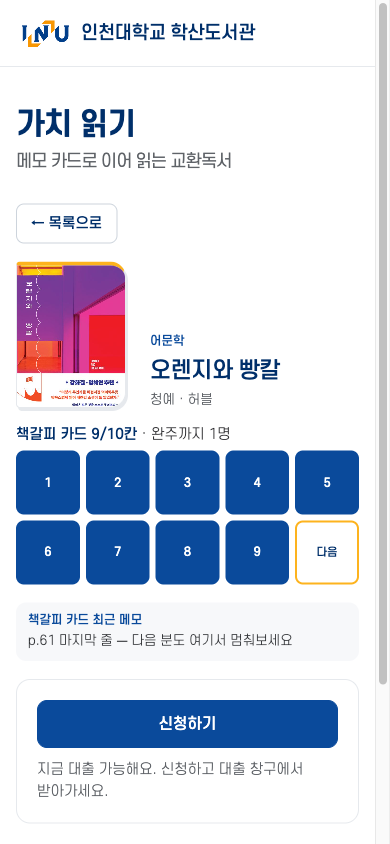
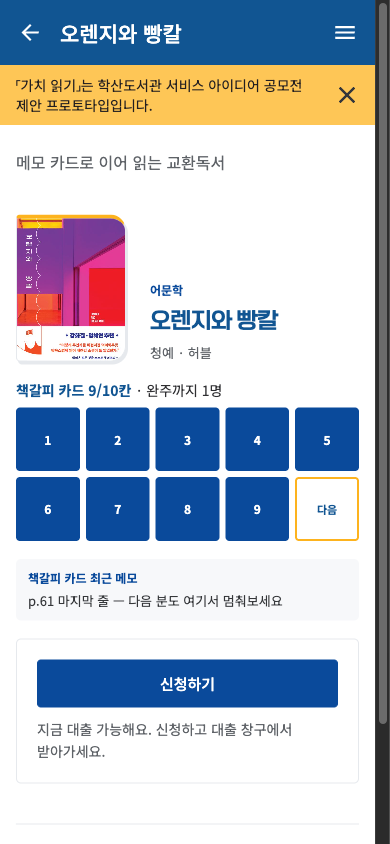
시안: 학산도서관 서브 페이지 구성 (도서관 서비스 > 가치 읽기)
- 학산도서관 실측값으로 헤더·메뉴·사이드바·경로·제목, 모바일 파란 상단 바 구성
- 메뉴·사이드바 링크는 실제 학산도서관 페이지로 연결, 검색창 등 가짜 기능 없음
- 공모전 제안 시안 · 비공식 배지 상시 표시, 노란 공지 띠, noindex(meta + X-Robots-Tag)
- 탭 제목·OG를 공모전 제안 프로토타입(비공식)으로
- 폰에서 바깥 탭 시 가운데 책 정보가 사라지던 버그 수정, 1024px 메뉴 넘침 수정
- 발표용 예상 화면 이미지 폴더(presentation/)는 git 제외

diff --git a/index.html b/index.html
@@ -3,33 +3,85 @@
 <head>
 <meta charset="utf-8">
 <meta name="viewport" content="width=device-width, initial-scale=1">
-<title>가치 읽기 · 인천대학교 학산도서관</title>
+<link rel="icon" href="/inu-logo.png">
+<title>가치 읽기 — 학산도서관 공모전 제안 프로토타입(비공식)</title>
+<meta name="robots" content="noindex, noarchive, nosnippet">
+<meta name="description" content="학산도서관 서비스 아이디어 공모전 제안 「가치 읽기」의 프로토타입입니다. 학산도서관 공식 서비스가 아닙니다.">
+<meta property="og:title" content="가치 읽기 — 학산도서관 공모전 제안 프로토타입(비공식)">
+<meta property="og:description" content="메모 카드로 이어 읽는 교환독서. 공모전 제안용 시안이며 학산도서관 공식 서비스가 아닙니다.">
+<meta property="og:type" content="website">
 <style>
-  /* 인천대 홈페이지와 같은 에스코어드림 (무료 폰트, 눈누 CDN) */
-  /* 에스코어드림은 획이 두꺼워서 한 단계씩 가볍게: 400→Light, 500→Regular, 600·700→Medium, 제목(800)만 Bold */
-  @font-face { font-family:'S-CoreDream'; font-weight:400; font-display:swap; src:url('https://cdn.jsdelivr.net/gh/projectnoonnu/noonfonts_six@1.2/S-CoreDream-3Light.woff') format('woff'); }
-  @font-face { font-family:'S-CoreDream'; font-weight:500; font-display:swap; src:url('https://cdn.jsdelivr.net/gh/projectnoonnu/noonfonts_six@1.2/S-CoreDream-4Regular.woff') format('woff'); }
-  @font-face { font-family:'S-CoreDream'; font-weight:600 700; font-display:swap; src:url('https://cdn.jsdelivr.net/gh/projectnoonnu/noonfonts_six@1.2/S-CoreDream-5Medium.woff') format('woff'); }
-  @font-face { font-family:'S-CoreDream'; font-weight:800; font-display:swap; src:url('https://cdn.jsdelivr.net/gh/projectnoonnu/noonfonts_six@1.2/S-CoreDream-6Bold.woff') format('woff'); }
-  :root { --blue:#0A4A9B; --navy:#002F6A; --ink:#2F2F32; --sub:#5F6368; --line:#E6E9ED; --soft:#F7F8FA; --cover:#F1F4F8; --point:#FDB31E; }
+  @font-face { font-family:'Noto Sans KR'; font-weight:300; font-display:swap; src:url('https://cdn.jsdelivr.net/npm/@fontsource/noto-sans-kr@5.2.6/files/noto-sans-kr-korean-300-normal.woff2') format('woff2'); }
+  @font-face { font-family:'Noto Sans KR'; font-weight:400; font-display:swap; src:url('https://cdn.jsdelivr.net/npm/@fontsource/noto-sans-kr@5.2.6/files/noto-sans-kr-korean-400-normal.woff2') format('woff2'); }
+  @font-face { font-family:'Noto Sans KR'; font-weight:500; font-display:swap; src:url('https://cdn.jsdelivr.net/npm/@fontsource/noto-sans-kr@5.2.6/files/noto-sans-kr-korean-500-normal.woff2') format('woff2'); }
+  @font-face { font-family:'Noto Sans KR'; font-weight:700; font-display:swap; src:url('https://cdn.jsdelivr.net/npm/@fontsource/noto-sans-kr@5.2.6/files/noto-sans-kr-korean-700-normal.woff2') format('woff2'); }
+  @font-face { font-family:'ONE Mobile Regular'; font-weight:400; font-display:swap; src:url('https://cdn.jsdelivr.net/gh/projectnoonnu/noonfonts_2105_2@1.0/ONE-Mobile-Regular.woff') format('woff'); }
+  @font-face { font-family:'ONE Mobile Title'; font-weight:400; font-display:swap; src:url('https://cdn.jsdelivr.net/gh/projectnoonnu/noonfonts_2105_2@1.0/ONE-Mobile-Title.woff') format('woff'); }
+  :root { --blue:#0A4A9B; --navy:#115592; --ink:#2F2F32; --sub:#5F6368; --line:#E6E9ED; --soft:#F7F8FA; --cover:#F1F4F8; --point:#FDB31E; }
   * { box-sizing: border-box; }
-  body { margin:0; background:#fff; color:var(--ink); font-family:'S-CoreDream',system-ui,sans-serif; word-break:keep-all; overflow-wrap:anywhere; } /* 한국어는 단어 중간에서 줄바꿈 안 함 */
-  header { border-bottom:1px solid var(--line); }
-  .wrap { max-width:1200px; margin:0 auto; padding:0 32px; }
-  .top { display:flex; flex-wrap:wrap; gap:12px; align-items:center; justify-content:space-between; padding:18px 32px; }
-  .brand { display:flex; align-items:center; gap:10px; font-size:18px; font-weight:700; color:var(--navy); letter-spacing:-0.02em; }
-  .brand img { width:51px; height:30px; object-fit:contain; }
-  main { padding:56px 48px 64px; display:flex; flex-direction:column; align-items:center; text-align:center; }
-  main > h1, footer { width:100%; max-width:1200px; margin-left:auto; margin-right:auto; }
-  #list-now { width:100%; display:flex; flex-direction:column; align-items:center; }
-  h1.title { margin:0; align-self:stretch; display:flex; flex-direction:column; align-items:flex-start; gap:8px; text-align:left; letter-spacing:-0.03em; }
-  h1.title span { font-size:40px; font-weight:800; color:var(--navy); }
-  h1.title small { font-size:17px; font-weight:500; color:var(--sub); }
-  .sec { margin:0; font-size:22px; letter-spacing:-0.02em; color:var(--navy); }
-  .sec span { font-size:16px; font-weight:500; color:var(--sub); }
-  .shelf { width:100%; display:flex; margin-top:24px; }
-  .row { flex:1 1 auto; min-width:0; display:flex; align-items:flex-end; gap:24px; padding:48px 0 0; outline:none; touch-action:pan-y; }
-  .row:focus-visible { box-shadow:0 0 0 2px var(--blue); border-radius:8px; }
+  body { margin:0; background:#fff; color:var(--ink); font-family:'Noto Sans KR',system-ui,sans-serif; font-size:16px; font-weight:400; word-break:keep-all; overflow-wrap:anywhere; } /* 한국어는 단어 중간에서 줄바꿈 안 함 */
+  a { color:inherit; text-decoration:none; }
+  svg.i { width:1em; height:1em; flex:0 0 auto; fill:currentColor; }
+  /* ── 학산도서관 서브 페이지 뼈대 (lib.inu.ac.kr 실측값: 헤더 84 · 메뉴 73 · 사이드바 270 · 본문 왼쪽 여백 40) ── */
+  .hd { position:relative; height:84px; display:flex; align-items:center; padding:0 120px 0 20px; }
+  .brand { display:flex; align-items:center; gap:10px; font-size:30px; font-weight:500; color:#58595B; letter-spacing:-0.04em; }
+  .brand img { width:82px; height:48px; object-fit:contain; }
+  .draft { flex:0 0 auto; padding:3px 9px; border:1px solid currentColor; border-radius:3px; font-family:'Noto Sans KR',sans-serif; font-size:13px; font-weight:500; line-height:1.4; letter-spacing:0; white-space:nowrap; }
+  .hd .draft { margin-left:14px; color:#B26B00; background:#FFF7E6; border-color:#F3C56B; }
+  .hd .univ { margin-left:auto; font-size:17px; color:#35373A; }
+  .hd .home { position:absolute; top:0; right:0; z-index:2; width:80px; height:104px; padding-bottom:20px; display:grid; place-items:center; background:var(--point); color:#fff; font-size:34px; clip-path:polygon(0 0, 100% 0, 100% 100%, 50% 82%, 0 100%); }
+  .gnb { height:73px; display:flex; align-items:center; gap:clamp(28px, 5vw, 100px); padding:0 100px 0 clamp(20px, 8vw, 114px); border-top:1px solid var(--line); border-bottom:1px solid var(--line); }
+  .gnb a { font-size:23px; font-weight:500; line-height:71px; color:#35373A; white-space:nowrap; }
+  .gnb a:hover, .gnb a.on { color:var(--blue); }
+  .notice { display:flex; align-items:center; gap:16px; min-height:62px; padding:10px 20px 10px 32px; background:rgba(253,179,30,.75); font-size:20px; color:#231F20; }
+  .notice p { margin:0; flex:1; }
+  .notice button { border:0; background:none; font:inherit; font-size:15px; color:#35373A; cursor:pointer; display:flex; align-items:center; gap:8px; min-height:40px; }
+  .notice button svg { font-size:28px; }
+  .notice[hidden] { display:none; }
+  .mbar { display:none; }
+  .lib-body { display:flex; align-items:flex-start; max-width:1440px; margin:0 auto; padding:45px 20px 0; }
+  .snb { flex:0 0 270px; font-family:'ONE Mobile Regular','Noto Sans KR',sans-serif; font-size:17px; }
+  .snb-title { position:relative; height:125px; display:grid; place-items:center; overflow:hidden; margin:0; background:var(--blue); color:#fff; font-family:'ONE Mobile Title','Noto Sans KR',sans-serif; font-size:27px; font-weight:400; }
+  .snb-title .wm { position:absolute; left:-6px; top:50%; transform:translateY(-50%); font-size:150px; letter-spacing:-0.05em; color:rgba(0,0,0,.12); pointer-events:none; }
+  .snb-title b { position:relative; font-weight:400; }
+  .snb-title::before, .snb-title::after { content:''; position:absolute; width:12px; height:12px; border:0 solid var(--point); }
+  .snb-title::before { top:20px; right:62px; border-top-width:4px; border-right-width:4px; } /* 노란 꺾쇠 ┐ */
+  .snb-title::after { bottom:24px; left:56px; border-bottom-width:4px; border-left-width:4px; } /* 노란 꺾쇠 └ */
+  .snb ul { list-style:none; margin:0; padding:0; }
+  .snb strong { display:flex; align-items:center; justify-content:space-between; padding:19px 14px 14px 17px; border-bottom:1px solid #EBECEC; font-weight:500; color:#231F20; }
+  .snb strong svg { font-size:24px; color:#9B9DA0; }
+  .snb strong.on { background:#EEF3FA; color:var(--blue); }
+  .snb li a { position:relative; display:block; padding:15px 14px 10px 38px; border-bottom:1px solid #EBECEC; line-height:19px; color:#2F2F32; }
+  .snb li a::before { content:''; position:absolute; left:17px; top:18px; width:9px; height:9px; border:2px solid #D5D5D6; box-sizing:border-box; }
+  .snb li a:hover, .snb li a.on { color:var(--blue); }
+  .snb li a.on { font-weight:500; } .snb li a.on::before { border-color:var(--blue); }
+  main { flex:1; min-width:0; padding:0 0 100px 40px; display:flex; flex-direction:column; text-align:left; }
+  .crumb { display:flex; flex-wrap:wrap; align-items:center; gap:4px; min-height:24px; margin:-3px 0 0; padding:0; list-style:none; font-size:16px; color:#35373A; }
+  .crumb li { display:flex; align-items:center; gap:4px; }
+  .crumb li + li::before { content:''; width:7px; height:7px; margin:0 6px 0 2px; border-top:1.5px solid #9B9DA0; border-right:1.5px solid #9B9DA0; transform:rotate(45deg); }
+  .crumb li:last-child { color:var(--blue); }
+  .crumb svg { font-size:22px; color:#9B9DA0; }
+  h1.title { margin:12px 0 0; padding-left:4px; font-family:'ONE Mobile Title','Noto Sans KR',sans-serif; font-size:39px; line-height:1.5; font-weight:400; color:#231F20; }
+  .lead { margin:4px 0 0 4px; font-size:16px; line-height:1.6; color:var(--sub); }
+  #list-now { width:100%; display:flex; flex-direction:column; align-items:flex-start; } /* 학산도서관처럼 본문은 왼쪽 정렬 */
+  @media (max-width:1023px){
+    .lib-top, .snb { display:none; }
+    .mbar { position:sticky; top:0; z-index:10; display:flex; align-items:center; gap:8px; height:65px; padding:0 8px; background:var(--navy); color:#fff; }
+    .mbar a { width:44px; height:44px; display:grid; place-items:center; font-size:26px; }
+    .mbar .draft { font-size:11px; padding:2px 6px; color:#fff; border-color:rgba(255,255,255,.6); }
+    .mbar b { flex:1; min-width:0; font-size:21px; font-weight:500; white-space:nowrap; overflow:hidden; text-overflow:ellipsis; }
+    .notice { min-height:0; padding:10px 8px 10px 16px; font-size:14px; }
+    .notice button span { display:none; }
+    .lib-body { padding:24px 16px 0; }
+    main { padding:0 0 48px; }
+    .crumb, h1.title, .page > .back { display:none; } /* 폰: 제목·뒤로가기는 파란 바에 (학산도서관 모바일과 같음) */
+    .lead { margin:0; }
+  }
+  .sec { margin:0; padding-left:12px; border-left:4px solid var(--point); font-family:'ONE Mobile Title','Noto Sans KR',sans-serif; font-size:26px; line-height:1.35; font-weight:400; letter-spacing:-0.02em; color:var(--navy); }
+  .sec span { font-family:'Noto Sans KR',sans-serif; font-size:15px; font-weight:400; color:var(--sub); }
+  .shelf { width:100%; display:flex; margin-top:40px; }
+  .row { flex:1 1 auto; min-width:0; display:flex; align-items:flex-end; gap:24px; padding:0; outline:none; touch-action:pan-y; }
+  .row:focus-visible { box-shadow:0 0 0 2px var(--blue); border-radius:5px; }
   .pick { position:relative; flex:1 1 0; min-width:0; padding:0; border:0; background:none; cursor:pointer; color:inherit; text-decoration:none; display:flex; flex-direction:column; align-items:center; gap:14px; font:inherit; }
   .pick[data-clone] { display:none; }
   .pick .cover { width:100%; border-radius:6px 22px 22px 6px; padding:24px 20px 24px 30px; box-shadow:inset 10px 0 0 rgba(0,47,106,.08), 3px 4px 0 var(--line); transform-origin:bottom center; transform:scale(1); transition:transform .35s ease, opacity .35s ease; }
@@ -44,7 +96,7 @@
   .track .done { width:150px; } /* 지금 읽는 책보다 작게 */
   .nav { display:flex; align-items:center; gap:8px; justify-content:flex-end; margin-bottom:8px; }
   .nav span { margin-right:auto; font-size:13px; color:var(--sub); }
-  .nav button { width:44px; height:44px; border-radius:999px; border:1px solid var(--line); background:#fff; color:var(--navy); cursor:pointer; display:grid; place-items:center; }
+  .nav button { width:44px; height:44px; border-radius:4px; border:1px solid var(--line); background:#fff; color:var(--navy); cursor:pointer; display:grid; place-items:center; }
   .nav button:disabled { opacity:.35; cursor:default; }
   .cover { position:relative; aspect-ratio:3/4; border-radius:4px 16px 16px 4px; overflow:hidden; border:1px solid var(--line); border-top:4px solid var(--point); background:var(--cover); color:var(--navy); box-shadow:inset 8px 0 0 rgba(0,47,106,.08), 2px 3px 0 var(--line); padding:18px 16px 18px 24px; display:flex; flex-direction:column; justify-content:space-between; }
   .cover img { position:absolute; inset:0; width:100%; height:100%; object-fit:cover; }
@@ -56,7 +108,7 @@
   .meta { display:flex; flex-direction:column; gap:4px; }
   .bar { display:block; height:6px; border-radius:999px; background:var(--line); overflow:hidden; margin-top:6px; }
   .bar > span { display:block; height:100%; background:var(--blue); border-radius:999px; }
-  .memo { background:var(--soft); border-radius:10px; padding:10px 12px; display:flex; flex-direction:column; gap:4px; }
+  .memo { background:var(--soft); border-radius:5px; padding:10px 12px; display:flex; flex-direction:column; gap:4px; }
   .memo b { font-size:12px; color:var(--blue); }
   .memo span { font-size:13px; line-height:1.55; color:#35373A; }
   .done { display:flex; flex-direction:column; gap:12px; }
@@ -64,48 +116,48 @@
   .done-link { display:flex; flex-direction:column; gap:10px; color:inherit; text-decoration:none; }
   .done-link .cover:not(:has(img)) + h3 { display:none; } /* 제목 표지면 아래 제목 중복 생략 */
   /* 버튼: 파란 버튼(.btn) / 테두리 버튼(.btn.ghost), 작은 크기(.sm) */
-  .btn { display:inline-flex; align-items:center; justify-content:center; gap:6px; min-height:48px; padding:0 22px; border:1px solid var(--blue); border-radius:10px; background:var(--blue); color:#fff; font:inherit; font-size:15px; font-weight:700; text-decoration:none; white-space:nowrap; cursor:pointer; transition:background .15s, border-color .15s, transform .1s; }
+  .btn { display:inline-flex; align-items:center; justify-content:center; gap:6px; min-height:48px; padding:0 22px; border:1px solid var(--blue); border-radius:4px; background:var(--blue); color:#fff; font:inherit; font-size:15px; font-weight:500; text-decoration:none; white-space:nowrap; cursor:pointer; transition:background .15s, border-color .15s, transform .1s; }
   .btn:hover { background:var(--navy); border-color:var(--navy); }
   .btn:active { transform:translateY(1px); }
   .btn:focus-visible, .pick-link:focus-visible { outline:3px solid rgba(10,74,155,.35); outline-offset:2px; }
   .btn.ghost { background:#fff; color:var(--navy); border-color:#CDD4DC; }
   .btn.ghost:hover { background:var(--soft); border-color:var(--navy); }
-  .btn.sm { min-height:40px; padding:0 14px; font-size:14px; font-weight:600; border-radius:8px; }
-  .page { width:100%; max-width:640px; margin-top:32px; display:flex; flex-direction:column; gap:18px; text-align:left; animation:fadeUp .25s ease; }
+  .btn.sm { min-height:40px; padding:0 14px; font-size:14px; font-weight:500; border-radius:4px; }
+  .page { width:100%; max-width:640px; margin-top:40px; display:flex; flex-direction:column; gap:18px; text-align:left; animation:fadeUp .25s ease; }
   .page > .back { align-self:flex-start; }
   .page-head { display:flex; gap:24px; align-items:flex-end; }
   .page-head .cover { flex:0 0 140px; }
-  .page-head h2 { margin:4px 0; font-size:26px; line-height:1.3; color:var(--navy); letter-spacing:-0.02em; }
+  .page-head h2 { margin:4px 0; font-family:'ONE Mobile Title','Noto Sans KR',sans-serif; font-size:26px; line-height:1.3; font-weight:400; color:var(--navy); letter-spacing:-0.02em; }
   .page .prog { display:flex; flex-direction:column; gap:8px; font-size:14px; } .page .prog b { color:var(--navy); }
   .slots { list-style:none; margin:0; padding:0; display:grid; grid-template-columns:repeat(10, minmax(0, 1fr)); gap:6px; }
   @media (max-width:420px){ .slots { grid-template-columns:repeat(5, minmax(0, 1fr)); } } /* 좁은 폰: 5칸×2줄 */
-  .slots li { aspect-ratio:1; border-radius:8px; border:1px dashed #CDD4DC; display:grid; place-items:center; font-size:12px; font-weight:700; color:var(--sub); }
+  .slots li { aspect-ratio:1; border-radius:4px; border:1px dashed #CDD4DC; display:grid; place-items:center; font-size:12px; font-weight:700; color:var(--sub); }
   .slots li.on { border:0; background:var(--blue); color:#fff; }
   .slots li.next { border:2px solid var(--point); color:var(--navy); font-size:11px; }
-  .action { display:flex; flex-direction:column; gap:10px; padding:20px; border:1px solid var(--line); border-radius:14px; }
+  .action { display:flex; flex-direction:column; gap:10px; padding:20px; border:1px solid var(--line); border-radius:5px; }
   .action .btn { align-self:stretch; } .action .btn.ghost { align-self:flex-start; }
   .action p { margin:0; font-size:14px; line-height:1.6; color:var(--sub); }
   .action .done-msg { font-size:16px; font-weight:700; color:var(--blue); }
-  .done-list { width:100%; margin-top:64px; text-align:left; }
+  .done-list { width:100%; margin-top:40px; text-align:left; }
   .done-list .sec { margin-bottom:8px; }
   .nav[hidden] { display:none; }
-  .review { background:var(--soft); border-radius:10px; padding:10px 12px; }
+  .review { background:var(--soft); border-radius:5px; padding:10px 12px; }
   .review b { display:block; font-size:12px; color:var(--sub); }
   .review span { font-size:14px; line-height:1.55; color:#35373A; }
   form { display:flex; flex-direction:column; gap:8px; }
   form label { font-size:13px; font-weight:500; }
-  input { min-height:44px; padding:0 12px; border:1px solid #CDD4DC; border-radius:6px; font:inherit; font-size:14px; color:var(--ink); }
+  input { min-height:44px; padding:0 12px; border:1px solid #CDD4DC; border-radius:5px; font:inherit; font-size:14px; color:var(--ink); }
   input.nick { flex:0 1 120px; min-width:0; }
   input.text { flex:1 1 200px; min-width:0; }
   .review-fields { display:flex; flex-wrap:wrap; gap:8px; }
-  .status { padding:24px; border-radius:10px; background:var(--soft); color:var(--sub); font-size:15px; line-height:1.6; }
-  footer { margin-top:56px; border-top:1px solid var(--line); padding-top:20px; font-size:13px; line-height:1.6; color:var(--sub); display:flex; flex-direction:column; gap:4px; text-align:left; }
+  .status { padding:24px; border-radius:5px; background:var(--soft); color:var(--sub); font-size:15px; line-height:1.6; }
+  footer { margin-top:40px; border-top:1px solid var(--line); padding-top:20px; font-size:13px; line-height:1.6; color:var(--sub); display:flex; flex-direction:column; gap:4px; text-align:left; }
   footer summary { width:max-content; color:var(--blue); font-weight:600; cursor:pointer; }
   footer details div { margin-top:6px; display:flex; flex-direction:column; gap:4px; }
   @keyframes fadeUp { from { opacity:0; transform:translateY(6px); } to { opacity:1; transform:none; } }
-  @media (max-width:600px){ .top{padding:18px 20px} main{padding:40px 16px 48px} h1.title span{font-size:30px} .pick .cover .t{font-size:16px} .page-head h2{font-size:22px} .page-head .cover{flex-basis:110px} }
+  @media (max-width:600px){ .pick .cover .t{font-size:16px}.page-head h2{font-size:22px}.page-head .cover{flex-basis:110px} }
   .pick-link { display:block; width:100%; color:inherit; text-decoration:none; }
-  .bubble { position:absolute; top:calc(100% + 18px); left:50%; transform:translateX(-50%); z-index:5; width:280px; padding:16px 18px; border-radius:14px; background:#fff; border:1px solid var(--line); box-shadow:0 8px 24px rgba(0,47,106,.12); display:none; flex-direction:column; gap:6px; text-align:left; }
+  .bubble { position:absolute; top:calc(100% + 18px); left:50%; transform:translateX(-50%); z-index:5; width:280px; padding:16px 18px; border-radius:5px; background:#fff; border:1px solid var(--line); box-shadow:none; display:none; flex-direction:column; gap:6px; text-align:left; }
   .bubble::before { content:''; position:absolute; top:-7px; left:50%; width:12px; height:12px; background:#fff; border-left:1px solid var(--line); border-top:1px solid var(--line); transform:translateX(-50%) rotate(45deg); }
   .bubble.first { left:0; transform:none; } .bubble.first::before { left:36%; }
   .bubble.last { left:auto; right:0; transform:none; } .bubble.last::before { left:64%; }
@@ -118,10 +170,10 @@
   .bubble .s { font-size:13px; color:var(--sub); }
   .bubble .go { margin-top:6px; padding-top:10px; border-top:1px solid var(--line); font-size:13px; font-weight:700; color:var(--blue); }
   .bubble .btn { margin-top:6px; }
-  .wish-list { width:100%; margin-top:64px; text-align:left; display:flex; flex-direction:column; gap:12px; }
+  .wish-list { width:100%; margin-top:40px; text-align:left; display:flex; flex-direction:column; gap:12px; }
   .wish-list .sec span { display:block; margin-top:4px; }
   .wish-list ul { list-style:none; margin:0; padding:0; display:grid; grid-template-columns:repeat(auto-fill, minmax(320px, 1fr)); gap:12px; }
-  .wish { display:flex; gap:16px; align-items:flex-end; justify-content:space-between; padding:16px 18px; border:1px solid var(--line); border-radius:14px; }
+  .wish { display:flex; gap:16px; align-items:flex-end; justify-content:space-between; padding:16px 18px; border:1px solid var(--line); border-radius:5px; }
   .wish > div { flex:1; min-width:0; display:flex; flex-direction:column; gap:6px; align-self:stretch; }
   .wish > div > .bar { margin-top:auto; } /* 제목은 위, 진행 막대는 아래로 맞춤 */
   .wish b { color:var(--navy); } .wish p { margin:0; font-size:14px; color:#35373A; }
@@ -130,7 +182,7 @@
   .wish-more { align-self:center; }
   .wish-msg { margin:0; font-size:14px; color:var(--blue); font-weight:600; }
   .mini { width:100%; display:flex; flex-direction:column; gap:6px; text-align:left; margin-top:6px; }
-  .mini .mt { font-size:14px; font-weight:700; color:var(--navy); white-space:nowrap; overflow:hidden; text-overflow:ellipsis; }
+  .mini .mt { font-size:14px; line-height:1.4; font-weight:500; color:var(--navy); }
   .mini .bar { height:4px; margin:0; }
   .mini .mp { font-size:12px; color:var(--sub); } .mini .mp b { color:var(--navy); }
   .bubble::after { content:''; position:absolute; left:0; right:0; top:-20px; height:20px; } /* 표지→말풍선 사이 틈에서 선택 풀리지 않게 */
@@ -140,7 +192,6 @@
     .pick { flex:0 0 64vw; scroll-snap-align:center; scroll-snap-stop:always; }
     .pick.on .cover { transform:none; } /* 폰에선 확대 대신 양옆 책을 흐리게만 → ] [] [ 모양이 잘 보이게 */
     .pick[data-clone] { display:flex; }
-    .mini .mt { overflow:visible; text-overflow:clip; }
     .mini .mp { white-space:nowrap; }
     .pick:not(.on) .mini { opacity:0; }
     .bubble { display:none !important; }
@@ -155,15 +206,50 @@
 </style>
 </head>
 <body>
-<header><div class="wrap top">
-  <div class="brand">
-    <img src="/inu-logo.png" alt="">
-    인천대학교 학산도서관
-  </div>
-</div></header>
+<!-- 학산도서관 서브 페이지 모양. 메뉴·사이드바 링크는 모두 실제 학산도서관 페이지로 연결 -->
+<div class="lib-top">
+  <header class="hd">
+    <a class="brand" href="https://lib.inu.ac.kr/"><img src="/inu-logo.png" alt="INU">인천대학교 학산도서관</a>
+    <span class="draft">공모전 제안 시안 · 비공식</span>
+    <a class="univ" href="https://www.inu.ac.kr/">인천대학교</a>
+    <a class="home" href="https://lib.inu.ac.kr/" title="학산도서관 홈페이지"><svg class="i" viewBox="0 0 24 24" aria-hidden="true"><path d="M10 20v-6h4v6h5v-8h3L12 3 2 12h3v8z"/></svg></a>
+  </header>
+  <nav class="gnb" aria-label="학산도서관 메뉴">
+    <a href="https://lib.inu.ac.kr/search/i-discovery">자료검색</a>
+    <a href="https://lib.inu.ac.kr/research/professional-serivce">연구학습지원</a>
+    <a href="https://lib.inu.ac.kr/library-services/acq" class="on">도서관 서비스</a>
+    <a href="https://lib.inu.ac.kr/ik-collections/new-arriaval-collections">컬렉션</a>
+    <a href="https://lib.inu.ac.kr/library-guide/introduction/about">도서관 안내</a>
+    <a href="https://lib.inu.ac.kr/mylibrary/dashboard">My Library</a>
+  </nav>
+</div>
+<div class="mbar">
+  <a id="m-back" href="https://lib.inu.ac.kr/library-services/acq" aria-label="뒤로"><svg class="i" viewBox="0 0 24 24" aria-hidden="true"><path d="M20 11H7.8l5.6-5.6L12 4l-8 8 8 8 1.4-1.4L7.8 13H20z"/></svg></a>
+  <b id="m-title">가치 읽기</b>
+  <span class="draft">제안 시안</span>
+  <a href="https://lib.inu.ac.kr/" aria-label="학산도서관 홈페이지"><svg class="i" viewBox="0 0 24 24" aria-hidden="true"><path d="M3 18h18v-2H3v2zm0-5h18v-2H3v2zm0-7v2h18V6H3z"/></svg></a>
+</div>
+<div class="notice" id="notice">
+  <p>「가치 읽기」는 학산도서관 서비스 아이디어 공모전 제안 프로토타입입니다.</p>
+  <button type="button" id="notice-close"><span>오늘 하루 보지 않기</span><svg class="i" viewBox="0 0 24 24" aria-hidden="true"><path d="M19 6.4 17.6 5 12 10.6 6.4 5 5 6.4 10.6 12 5 17.6 6.4 19 12 13.4 17.6 19 19 17.6 13.4 12z"/></svg></button>
+</div>
 
+<div class="lib-body">
+  <nav class="snb" aria-label="도서관 서비스 메뉴">
+    <h2 class="snb-title"><span class="wm" aria-hidden="true">INU</span><b>도서관 서비스</b></h2>
+    <strong class="on"><span>함께 읽기 <small>(제안)</small></span><svg class="i" viewBox="0 0 24 24" aria-hidden="true"><path d="M7.4 8.6 12 13.2l4.6-4.6L18 10l-6 6-6-6z"/></svg></strong>
+    <ul><li><a class="on" href="#" aria-current="page">가치 읽기</a></li></ul>
+    <strong>도서관서비스<svg class="i" viewBox="0 0 24 24" aria-hidden="true"><path d="M7.4 8.6 12 13.2l4.6-4.6L18 10l-6 6-6-6z"/></svg></strong>
+    <ul><li><a href="https://lib.inu.ac.kr/library-services/acq">희망도서 신청</a></li><li><a href="https://lib.inu.ac.kr/library-services/dept-acq">학과도서 신청</a></li><li><a href="https://lib.inu.ac.kr/library-services/book-delivery-guide">책배달 서비스</a></li><li><a href="https://lib.inu.ac.kr/library-services/smuf">시설/공간 예약</a></li></ul>
+    <strong>협력기관자료 이용<svg class="i" viewBox="0 0 24 24" aria-hidden="true"><path d="M7.4 8.6 12 13.2l4.6-4.6L18 10l-6 6-6-6z"/></svg></strong>
+    <ul><li><a href="https://lib.inu.ac.kr/library-services/nl-guide">국립중앙도서관/국회도서관 자료이용</a></li><li><a href="https://lib.inu.ac.kr/library-services/olv-guide">타대학 열람의뢰</a></li></ul>
+    <strong>도서 한줄평/복사<svg class="i" viewBox="0 0 24 24" aria-hidden="true"><path d="M7.4 8.6 12 13.2l4.6-4.6L18 10l-6 6-6-6z"/></svg></strong>
+    <ul><li><a href="https://lib.inu.ac.kr/library-services/latest-reviewed-biblio">도서 한줄평</a></li><li><a href="https://lib.inu.ac.kr/library-services/copy">복사/스캔/프린트/Wifi</a></li></ul>
+  </nav>
 <main>
-  <h1 class="title"><span>가치 읽기</span><small>메모 카드로 이어 읽는 교환독서</small></h1>
+  <ol class="crumb" id="crumb"></ol>
+  <h1 class="title">가치 읽기</h1>
+  <p class="lead">메모 카드로 이어 읽는 교환독서</p>
   <section id="list-now"><div class="status">국립중앙도서관 사서추천도서를 불러오는 중…</div></section>
   <footer>
     <span>참여 인원·대출 상태와 완주 후기는 예시 데이터이며, 학산도서관 공식 서비스가 아닌 공모전 제안용 프로토타입입니다.</span>
@@ -173,6 +259,7 @@
     </div></details>
   </footer>
 </main>
+</div>
 
 <script>
 const ui = { sel: -1, wishAll: false, wishMsg: '' };
@@ -237,6 +324,23 @@ window.addEventListener('hashchange', (e) => {
   setTimeout(() => (list ? list.scrollIntoView() : window.scrollTo(0, 0))); // '#' 링크의 기본 맨 위 스크롤 뒤에 실행
 });
 
+// 경로·휴대폰 상단 바: 목록이면 '가치 읽기', 상세면 책 제목까지
+const LIB = 'https://lib.inu.ac.kr';
+const HOME_ICON = '<svg class="i" viewBox="0 0 24 24" aria-hidden="true"><path d="M10 20v-6h4v6h5v-8h3L12 3 2 12h3v8z"/></svg>';
+function setNav(detail) {
+  document.getElementById('crumb').innerHTML = `<li><a href="${LIB}/">${HOME_ICON}<span>홈</span></a></li>
+    <li><a href="${LIB}/library-services/acq">도서관 서비스</a></li>
+    <li>${detail ? '<a href="#">가치 읽기</a>' : '가치 읽기'}</li>${detail ? `<li>${esc(detail)}</li>` : ''}`;
+  document.getElementById('m-title').textContent = detail || '가치 읽기';
+  document.getElementById('m-back').href = detail ? '#' : LIB + '/library-services/acq';
+}
+// 노란 공지 띠: '오늘 하루 보지 않기'
+const NOTICE_KEY = 'gachi-notice-hidden';
+const today = new Date().toDateString();
+if (localStorage.getItem(NOTICE_KEY) === today) document.getElementById('notice').hidden = true;
+document.getElementById('notice-close').onclick = () => { localStorage.setItem(NOTICE_KEY, today); document.getElementById('notice').hidden = true; };
+setNav(''); // 데이터 오기 전에도 경로 표시
+
 function render() {
   if (!data) return;
   const { now, done } = data;
@@ -245,6 +349,7 @@ function render() {
   const key = id && decodeURIComponent(id);
   const book = kind === 'book' && data.now.find((b) => b.isbn === key);
   const page = kind === 'done' && data.done.find((d) => d.id === key);
+  setNav(book ? book.title : page ? page.title : '');
   if (book || page) {
     document.getElementById('list-now').innerHTML = book ? bookPage(book, data.relayMax) : donePage(page, data.relayMax);
     loadCovers();
@@ -343,6 +448,7 @@ function mini(b, max) {
 }
 function select(i) {
   if (!data || i === ui.sel) return;
+  if (i < 0 && innerWidth <= 600) return; // 폰은 가운데 책이 항상 선택 상태 (바깥을 탭해도 제목·진행 막대 유지)
   ui.sel = i;
   document.querySelectorAll('.pick').forEach((el) => el.classList.toggle('on', Number(el.dataset.sel) === i));
 }

diff --git a/README.md b/README.md
@@ -70,5 +70,5 @@ npm start              # http://localhost:3000
 - `/api/books`는 10분, `/api/cover`는 하루 동안 Vercel CDN에 캐시돼서, 방문자가 많아도 국중도·카카오 API 호출이 크게 늘지 않습니다.
 - 릴레이 완주 기준 10명은 책갈피 카드 메모 칸 수입니다 (`lib/library.js`의 `RELAY_MAX`).
 - 참여 인원·대출 상태는 예시 데이터입니다. 교환독서 신청·후기·책 추천은 브라우저(localStorage)에만 저장됩니다. 실제 운영에서는 도서관 대출 시스템·서버 저장소와 연동합니다.
-- 폰트는 인천대 홈페이지와 같은 에스코어드림(눈누 CDN)입니다.
+- 학산도서관 홈페이지의 서브 페이지(도서관 서비스 > 가치 읽기)로 바로 들어갈 수 있게 같은 뼈대로 만들었습니다: 헤더·메뉴·왼쪽 사이드바·경로, 모바일 파란 상단 바, 폰트(Noto Sans KR, ONE 모바일 타이틀/레귤러)와 색. 메뉴·사이드바 링크는 모두 실제 학산도서관 페이지로 연결되고, 동작하지 않는 검색창 같은 가짜 기능은 넣지 않았습니다. 노란 공지 띠와 하단에 공모전 프로토타입 안내를 표시합니다.
 - 공모전 제안용 프로토타입이며 학산도서관 공식 서비스가 아닙니다.
